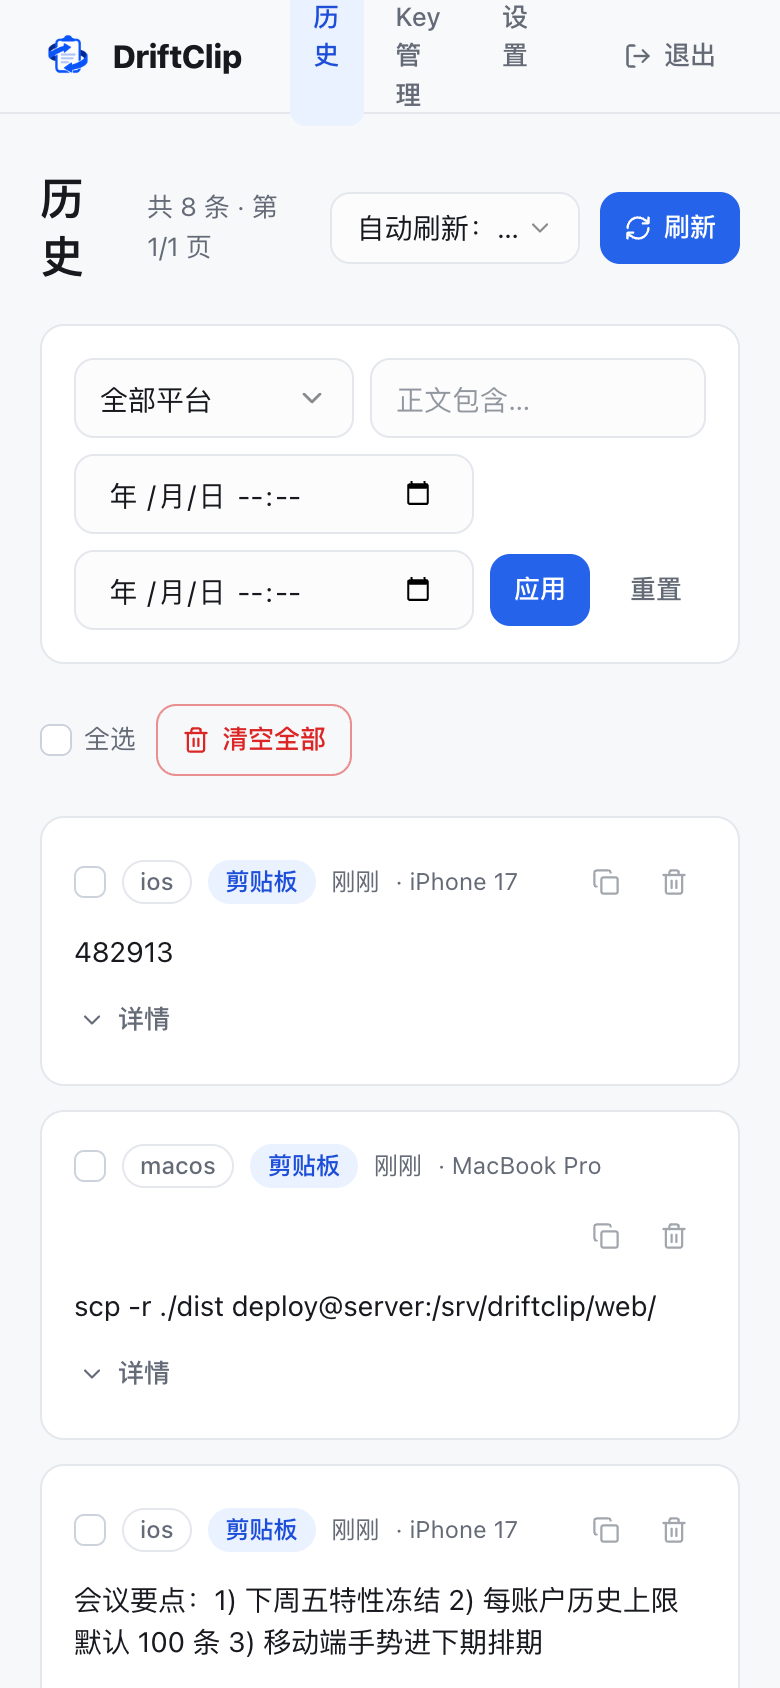
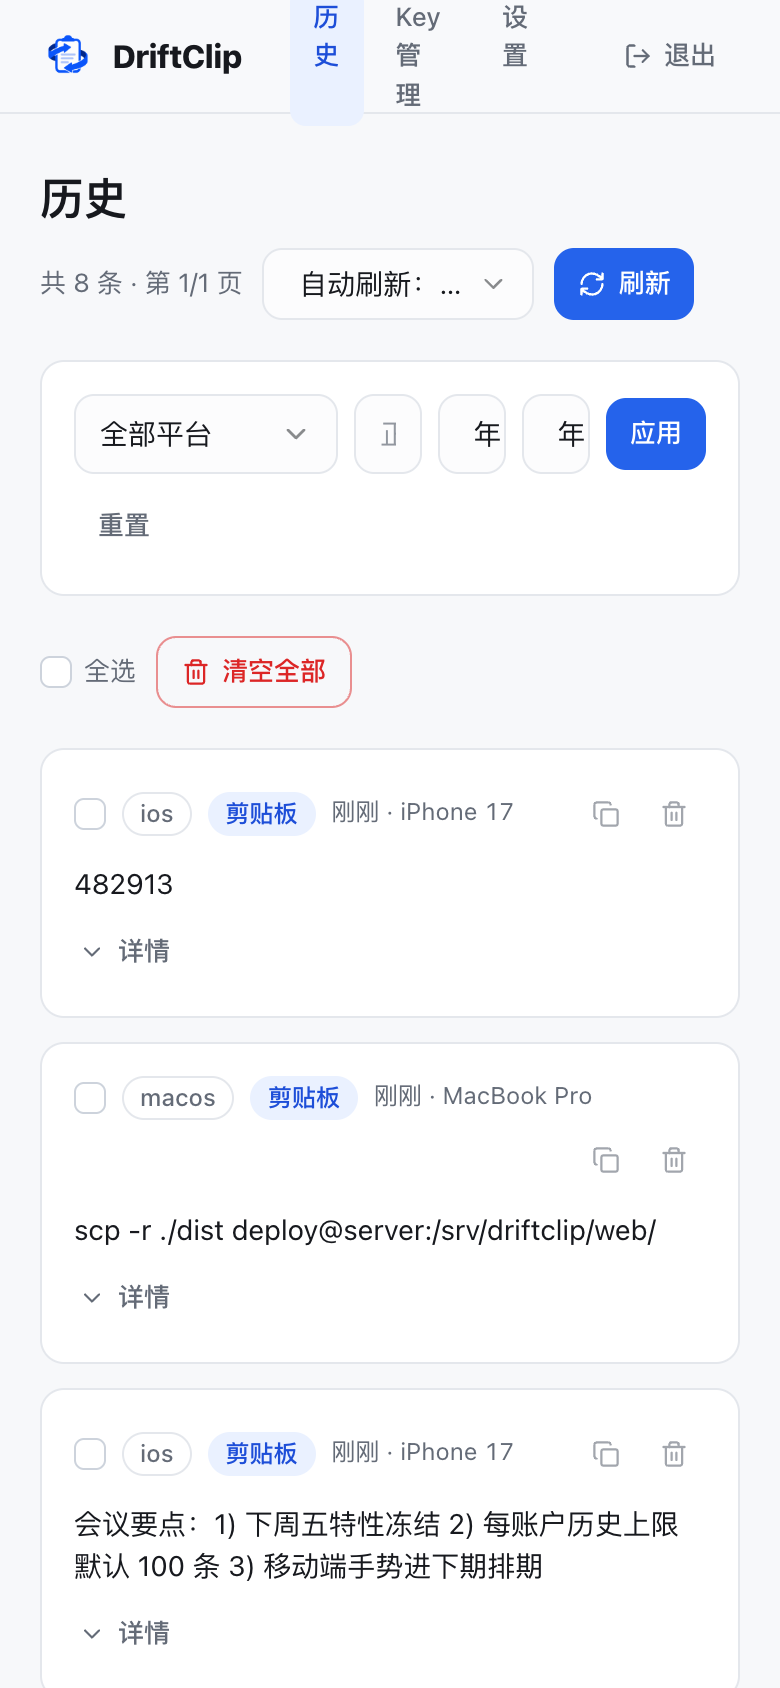
fix(web): 历史页移动端适配
- 记录卡 meta 行：时间与设备名合并为可截断整体，窄屏省略号
  截断而不是把「· 设备名」拆到第二行悬挂
- 内容预览 line-clamp-2，长文本两行截断，卡片高度一致
- 头部与筛选栏改弹性布局：时间输入窄屏各占半行自然换行，
  控件宽度随断点缩放，390px 下无溢出错乱
- 同步重新生成 README 截图

diff --git a/web/src/pages/HistoryPage.tsx b/web/src/pages/HistoryPage.tsx
@@ -218,11 +218,11 @@ export function HistoryPage() {
 
   return (
     <section className="flex flex-col gap-5">
-      <div className="flex items-center justify-between gap-4">
+      <div className="flex flex-wrap items-center justify-between gap-x-4 gap-y-2.5">
         <h1 className="text-display font-heavy tracking-[-0.4px] text-foreground m-0">
           历史
         </h1>
-        <div className="flex items-center gap-2.5">
+        <div className="flex flex-wrap items-center gap-2.5">
           <span className="text-body-sm text-muted-foreground">
             共 {total} 条 · 第 {page}/{totalPages} 页
           </span>
@@ -234,7 +234,10 @@ export function HistoryPage() {
               setAutoRefresh(n)
             }}
           >
-            <SelectTrigger className="h-control-md w-[150px]" aria-label="自动刷新间隔">
+            <SelectTrigger
+              className="h-control-md w-[136px] sm:w-[150px]"
+              aria-label="自动刷新间隔"
+            >
               <SelectValue />
             </SelectTrigger>
             <SelectContent>
@@ -259,9 +262,10 @@ export function HistoryPage() {
       {/* 筛选栏（Spec §6.2：组合筛选 AND 关系，正文匹配忽略英文字母大小写） */}
       <Card>
         <CardContent className="p-4">
+          {/* 移动端：选择/搜索一行、两个时间一行、按钮一行自然换行；桌面保持单行。 */}
           <div className="flex flex-wrap items-center gap-2">
             <Select value={platform} onValueChange={setPlatform}>
-              <SelectTrigger className="w-[140px]" aria-label="平台筛选">
+              <SelectTrigger className="w-[132px] sm:w-[140px]" aria-label="平台筛选">
                 <SelectValue />
               </SelectTrigger>
               <SelectContent>
@@ -279,21 +283,21 @@ export function HistoryPage() {
               placeholder="正文包含…"
               value={q}
               onChange={(e) => setQ(e.target.value)}
-              className="flex-1 min-w-[160px]"
+              className="min-w-0 flex-1"
             />
             <Input
               aria-label="起始时间"
               type="datetime-local"
               value={from}
               onChange={(e) => setFrom(e.target.value)}
-              className="w-[200px]"
+              className="min-w-0 flex-1 sm:w-[200px] sm:flex-none"
             />
             <Input
               aria-label="结束时间"
               type="datetime-local"
               value={to}
               onChange={(e) => setTo(e.target.value)}
-              className="w-[200px]"
+              className="min-w-0 flex-1 sm:w-[200px] sm:flex-none"
             />
             <Button onClick={applyFilter} size="sm">
               应用
@@ -392,7 +396,7 @@ export function HistoryPage() {
                   )}
                 >
                   <CardContent className="flex flex-col gap-2 p-4">
-                    <div className="flex flex-wrap items-center gap-2">
+                    <div className="flex flex-wrap items-center gap-x-2 gap-y-1">
                       <Checkbox
                         aria-label={`选择记录 ${it.id}`}
                         checked={isSelected}
@@ -402,14 +406,12 @@ export function HistoryPage() {
                       <Badge variant={it.source === 'manual' ? 'manual' : 'primary'}>
                         {it.source === 'manual' ? '手动' : '剪贴板'}
                       </Badge>
-                      <span className="text-caption text-muted-foreground tabular-nums">
+                      {/* 时间与设备合并为一个可截断的整体，窄屏下省略而不是拆成两行。 */}
+                      <span className="min-w-0 truncate text-caption text-muted-foreground tabular-nums">
                         {formatRelative(it.received_at)}
+                        {(it.device_model || it.os_version) &&
+                          ` · ${it.device_model || it.os_version}`}
                       </span>
-                      {(it.device_model || it.os_version) && (
-                        <span className="text-caption text-muted-foreground">
-                          · {it.device_model || it.os_version}
-                        </span>
-                      )}
                       {/* 操作区常驻在右上角，hover 时才浮现，保持列表安静。 */}
                       <div className="ml-auto flex items-center gap-0.5 opacity-60 transition-opacity group-hover:opacity-100 focus-within:opacity-100">
                         <Button
@@ -433,7 +435,7 @@ export function HistoryPage() {
                         </Button>
                       </div>
                     </div>
-                    <div className="whitespace-pre-wrap break-words text-body text-foreground">
+                    <div className="line-clamp-2 whitespace-pre-wrap break-words text-body text-foreground">
                       {it.content_preview}
                     </div>
                     <div>
